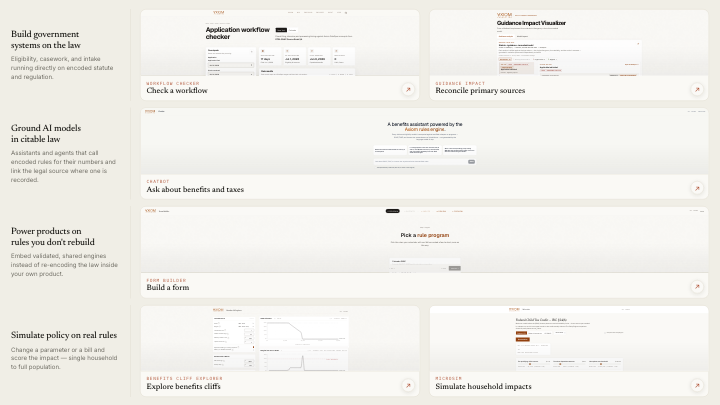
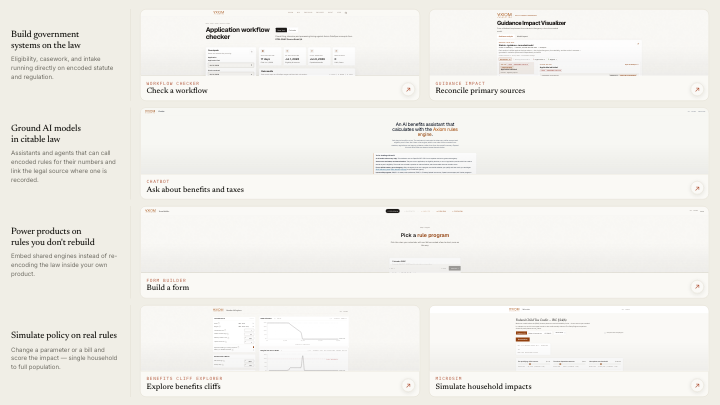
Label the /docs compile seal illustrative; re-capture the gallery poster
Review round 1 on #280:
- The /docs pipeline figure still drew "certified · signed" under the
  seal that feeds the Chatbot box. The certified ledger is empty
  (api.axiom.org/v1/ready) and the chatbot runs per-state program
  artifacts, so the seal now reads "compiled · illustrative". A docs test
  fails if the figure's text or accessible name says certified, signed,
  or sealed.
- gallery.png's chatbot tile showed the live pre-#34 hero. It is
  re-captured from axiom-demo-shell#9 at 982d58f with the chatbot tile's
  iframe pointed at a local render of finbot-snap-demo#34 (0364548); every
  other tile loads production.

Changed region(s): [[0.5194, 0.2963, 0.6722, 0.4444], [0.0, 0.6222, 0.1528, 0.6815], [0.1222, 0.3556, 0.1528, 0.3852]]

diff --git a/src/app/docs/docs.test.tsx b/src/app/docs/docs.test.tsx
@@ -56,6 +56,19 @@ describe("DocsPage", () => {
     ).toBeInTheDocument();
   });
 
+  // The figure's compile seal feeds the chatbot, dashboards, and APIs, but it
+  // is illustrative: the certified ledger is empty (api.axiom.org/v1/ready)
+  // and the chatbot runs per-state program artifacts, not one sealed program.
+  // Neither the drawn text nor the accessible name may call it certified,
+  // signed, or sealed.
+  it("labels the pipeline figure's compile seal as illustrative", () => {
+    render(<DocsPage />);
+    const figure = screen.getByRole("img", { name: /five equal stations/i, hidden: true });
+    const text = `${figure.textContent ?? ""} ${figure.getAttribute("aria-label") ?? ""}`;
+    expect(text).not.toMatch(/\b(certified|signed|sealed)\b/i);
+    expect(figure.textContent).toMatch(/compiled · illustrative/);
+  });
+
   it("distinguishes implemented execution from planned admission", () => {
     render(<DocsPage />);
 

diff --git a/src/components/docs/flat-strip.tsx b/src/components/docs/flat-strip.tsx
@@ -297,7 +297,7 @@ export function FlatStrip() {
         <circle cx={SEAL.x} cy={SEAL.y} r="15.5" fill="none" stroke={WAX} strokeWidth="0.7" />
         <text className="fp-sealtick" x={SEAL.x} y={SEAL.y + 5} textAnchor="middle">✓</text>
         <text className="fp-mono fp-mono--sm" x={SEAL.x} y={SEAL.y + 42} textAnchor="middle">SNAP · US · 2026</text>
-        <text className="fp-mono fp-mono--tiny" x={SEAL.x} y={SEAL.y + 58} textAnchor="middle" opacity="0.6">certified · signed</text>
+        <text className="fp-mono fp-mono--tiny" x={SEAL.x} y={SEAL.y + 58} textAnchor="middle" opacity="0.6">compiled · illustrative</text>
 
         {/* ── THE SURFACES ── */}
         <text className="fp-eyebrow" x="1290" y={EYEBROW_Y}>surfaces</text>
